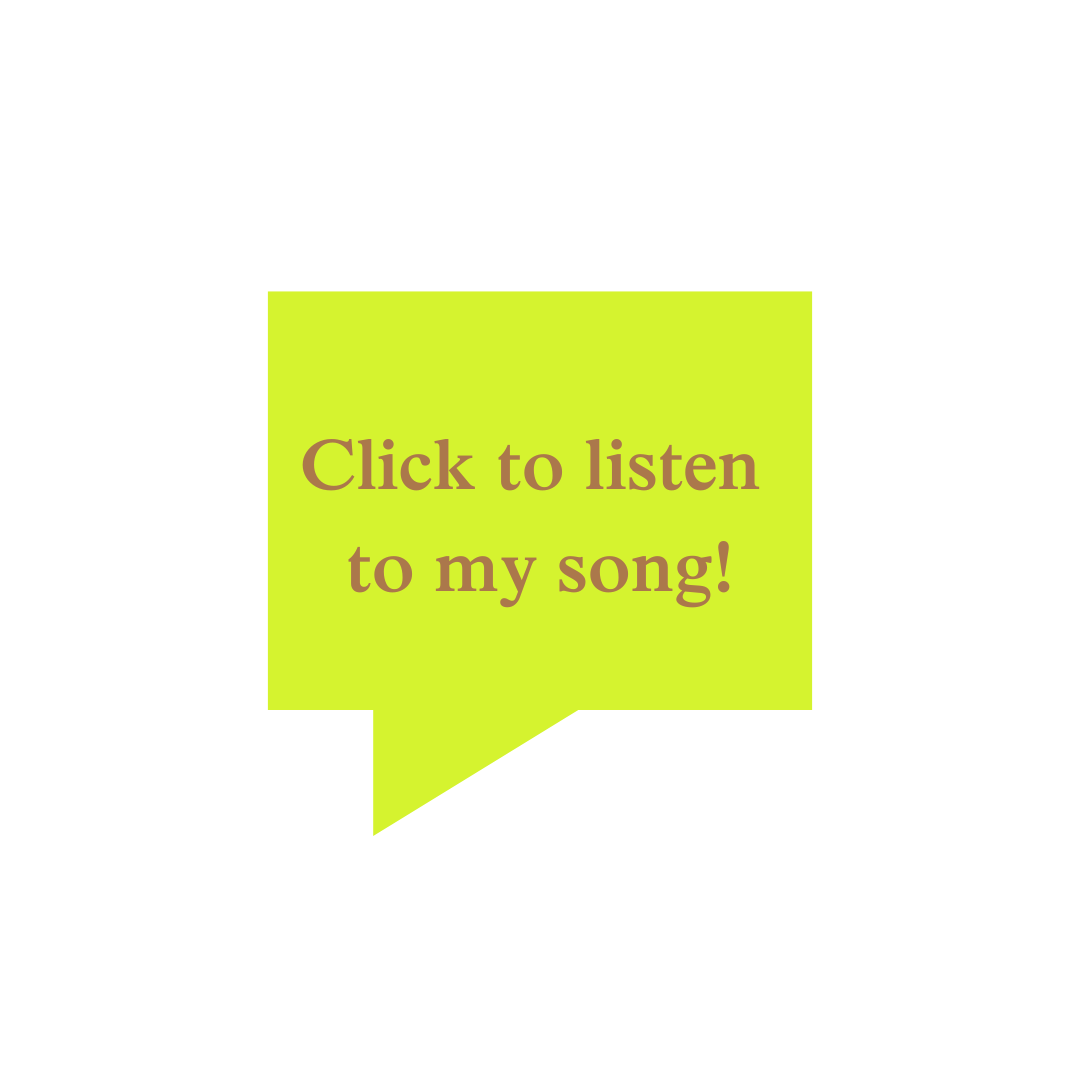
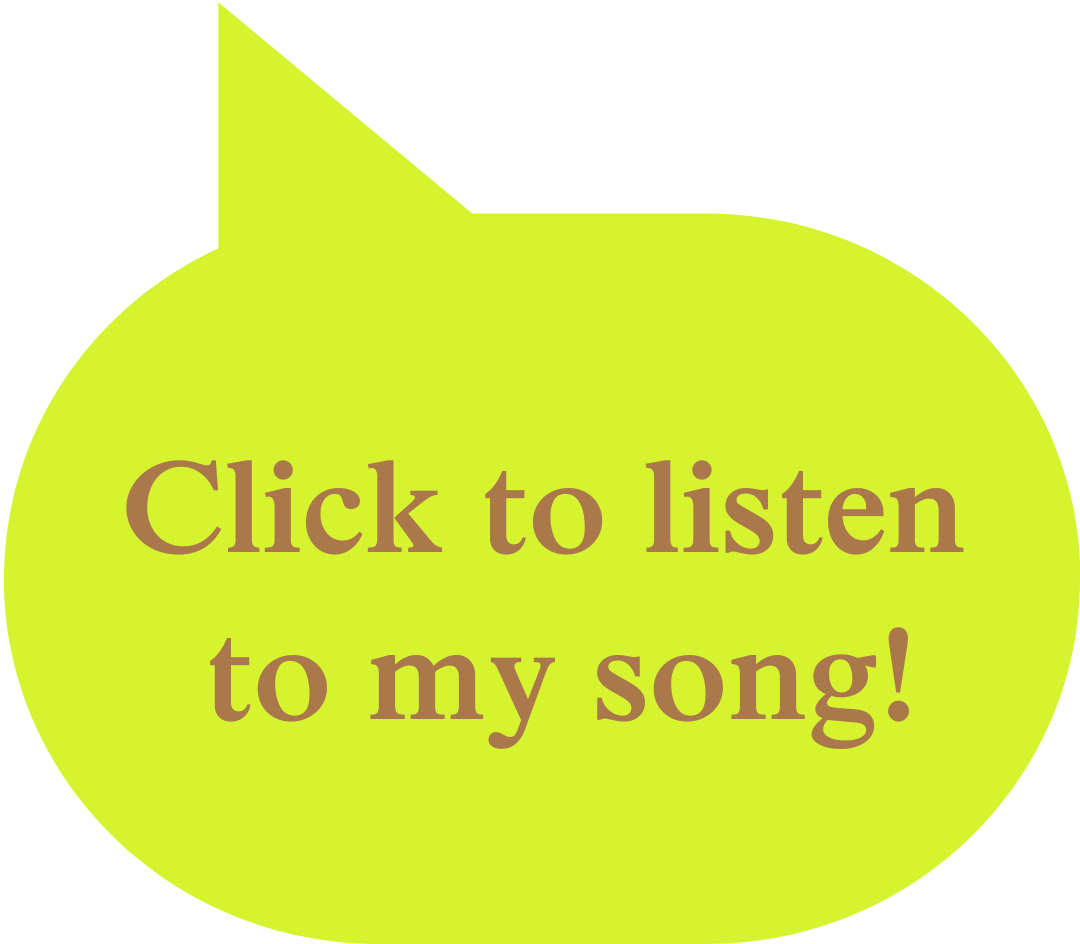
Song feature for nightingale refined

diff --git a/js/script.js b/js/script.js
@@ -1,17 +1,46 @@
-// script.js
-
 document.addEventListener('DOMContentLoaded', function() {
     showScreen('startScreen');
     document.getElementById('startButton').addEventListener('click', startGame);
-});
 
-function toggleNightingaleSong() {
-    const audioElement = document.getElementById('nightingaleAudio');
+    const nightingale = document.getElementById('nightingale');
+    const speechBubble = document.createElement('img');
+    speechBubble.src = 'images/speech_bubble.png';
+    speechBubble.id = 'speechBubble';
+    speechBubble.style.display = 'none';
+    speechBubble.style.position = 'absolute';
+    speechBubble.style.pointerEvents = 'none'; // Ensure speech bubble doesn't interfere with mouse events
 
-    if (audioElement.paused) {
-        audioElement.play();
-    } else {
-        audioElement.pause();
-        audioElement.currentTime = 0; // Reset audio to start
+    document.body.appendChild(speechBubble);
+
+    nightingale.addEventListener('mouseover', showSpeechBubble);
+    nightingale.addEventListener('mousemove', moveSpeechBubble);
+    nightingale.addEventListener('mouseout', hideSpeechBubble);
+    nightingale.addEventListener('click', toggleNightingaleSong); // Add click listener for audio
+
+    function showSpeechBubble() {
+        speechBubble.style.display = 'block';
     }
-}
+
+    function moveSpeechBubble(event) {
+        const mouseX = event.pageX;
+        const mouseY = event.pageY;
+        // Adjust position to place the speech bubble at the cursor tip
+        speechBubble.style.left = mouseX + 'px';
+        speechBubble.style.top = mouseY + 'px';
+    }
+
+    function hideSpeechBubble() {
+        speechBubble.style.display = 'none';
+    }
+
+    function toggleNightingaleSong() {
+        const audioElement = document.getElementById('nightingaleAudio');
+
+        if (audioElement.paused) {
+            audioElement.play();
+        } else {
+            audioElement.pause();
+            audioElement.currentTime = 0; // Reset audio to start
+        }
+    }
+});

diff --git a/styles/style.css b/styles/style.css
@@ -238,3 +238,10 @@ button:hover, button:active {
     font-size: 3vw; /* Maintain the same font size */
     z-index: 1; /* Ensure it's above other elements */
 }
+
+#speechBubble {
+    width: 70px; /* Adjust width as needed */
+    height: auto; /* Adjust height as needed */
+    z-index: 100; /* Ensure it's above other elements */
+    /* Additional styles for positioning */
+}
